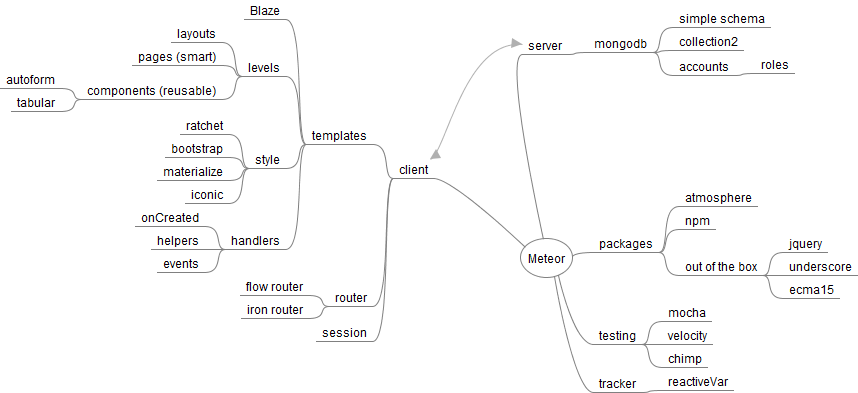
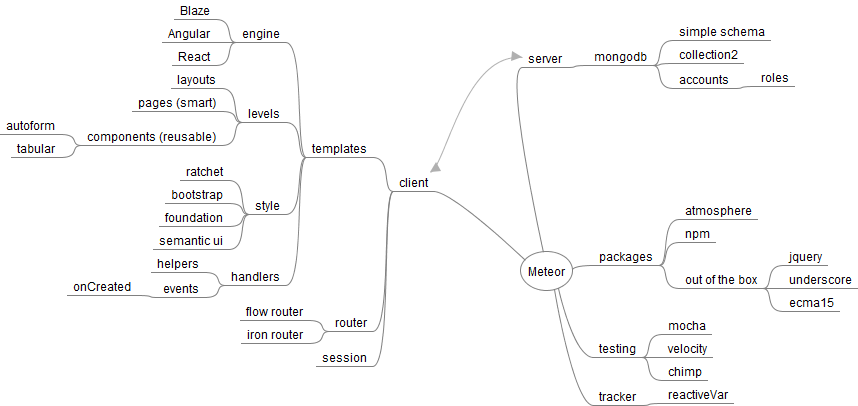
Updated mindmap

diff --git a/Meteor.mm b/Meteor.mm
@@ -14,7 +14,11 @@
 <node CREATED="1509032421762" HGAP="86" ID="ID_1171398297" MODIFIED="1509033672011" POSITION="left" TEXT="client" VSHIFT="-89">
 <arrowlink DESTINATION="ID_1039147093" ENDARROW="Default" ENDINCLINATION="-58;-5;" ID="Arrow_ID_1223117526" STARTARROW="Default" STARTINCLINATION="-16;-9;"/>
 <node CREATED="1509032613141" ID="ID_1028739532" MODIFIED="1509032618313" TEXT="templates">
-<node CREATED="1509033262278" ID="ID_565969398" MODIFIED="1509033266307" TEXT="Blaze"/>
+<node CREATED="1509033262278" ID="ID_565969398" MODIFIED="1509044387699" TEXT="engine">
+<node CREATED="1509044387699" ID="ID_1223899049" MODIFIED="1509044391168" TEXT="Blaze"/>
+<node CREATED="1509044392081" ID="ID_1943966150" MODIFIED="1509044396160" TEXT="Angular"/>
+<node CREATED="1509044396837" ID="ID_1891930913" MODIFIED="1509044399481" TEXT="React"/>
+</node>
 <node CREATED="1509033267465" ID="ID_208486302" MODIFIED="1509033270385" TEXT="levels">
 <node CREATED="1509033299059" ID="ID_701825409" MODIFIED="1509033302355" TEXT="layouts"/>
 <node CREATED="1509033303601" ID="ID_1396164958" MODIFIED="1509033307548" TEXT="pages (smart)"/>
@@ -26,13 +30,14 @@
 <node CREATED="1509033339787" ID="ID_1934163504" MODIFIED="1509033344118" TEXT="style">
 <node CREATED="1509033346118" ID="ID_125112241" MODIFIED="1509033350806" TEXT="ratchet"/>
 <node CREATED="1509033352611" ID="ID_706586995" MODIFIED="1509033359626" TEXT="bootstrap"/>
-<node CREATED="1509033362581" ID="ID_527055037" MODIFIED="1509033365585" TEXT="materialize"/>
-<node CREATED="1509033367210" ID="ID_647066245" MODIFIED="1509033369475" TEXT="iconic"/>
+<node CREATED="1509033362581" ID="ID_527055037" MODIFIED="1509044435936" TEXT="foundation"/>
+<node CREATED="1509033367210" ID="ID_647066245" MODIFIED="1509044424879" TEXT="semantic ui"/>
 </node>
 <node CREATED="1509033271106" ID="ID_1782906291" MODIFIED="1509033279852" TEXT="handlers">
-<node CREATED="1509033281795" ID="ID_151027409" MODIFIED="1509033285715" TEXT="onCreated"/>
 <node CREATED="1509033287549" ID="ID_699792546" MODIFIED="1509033289210" TEXT="helpers"/>
-<node CREATED="1509033289873" ID="ID_215337936" MODIFIED="1509033293019" TEXT="events"/>
+<node CREATED="1509033289873" ID="ID_215337936" MODIFIED="1509033293019" TEXT="events">
+<node CREATED="1509033281795" ID="ID_151027409" MODIFIED="1509033285715" TEXT="onCreated"/>
+</node>
 </node>
 </node>
 <node CREATED="1509032618842" ID="ID_1716578722" MODIFIED="1509032621538" TEXT="router">
